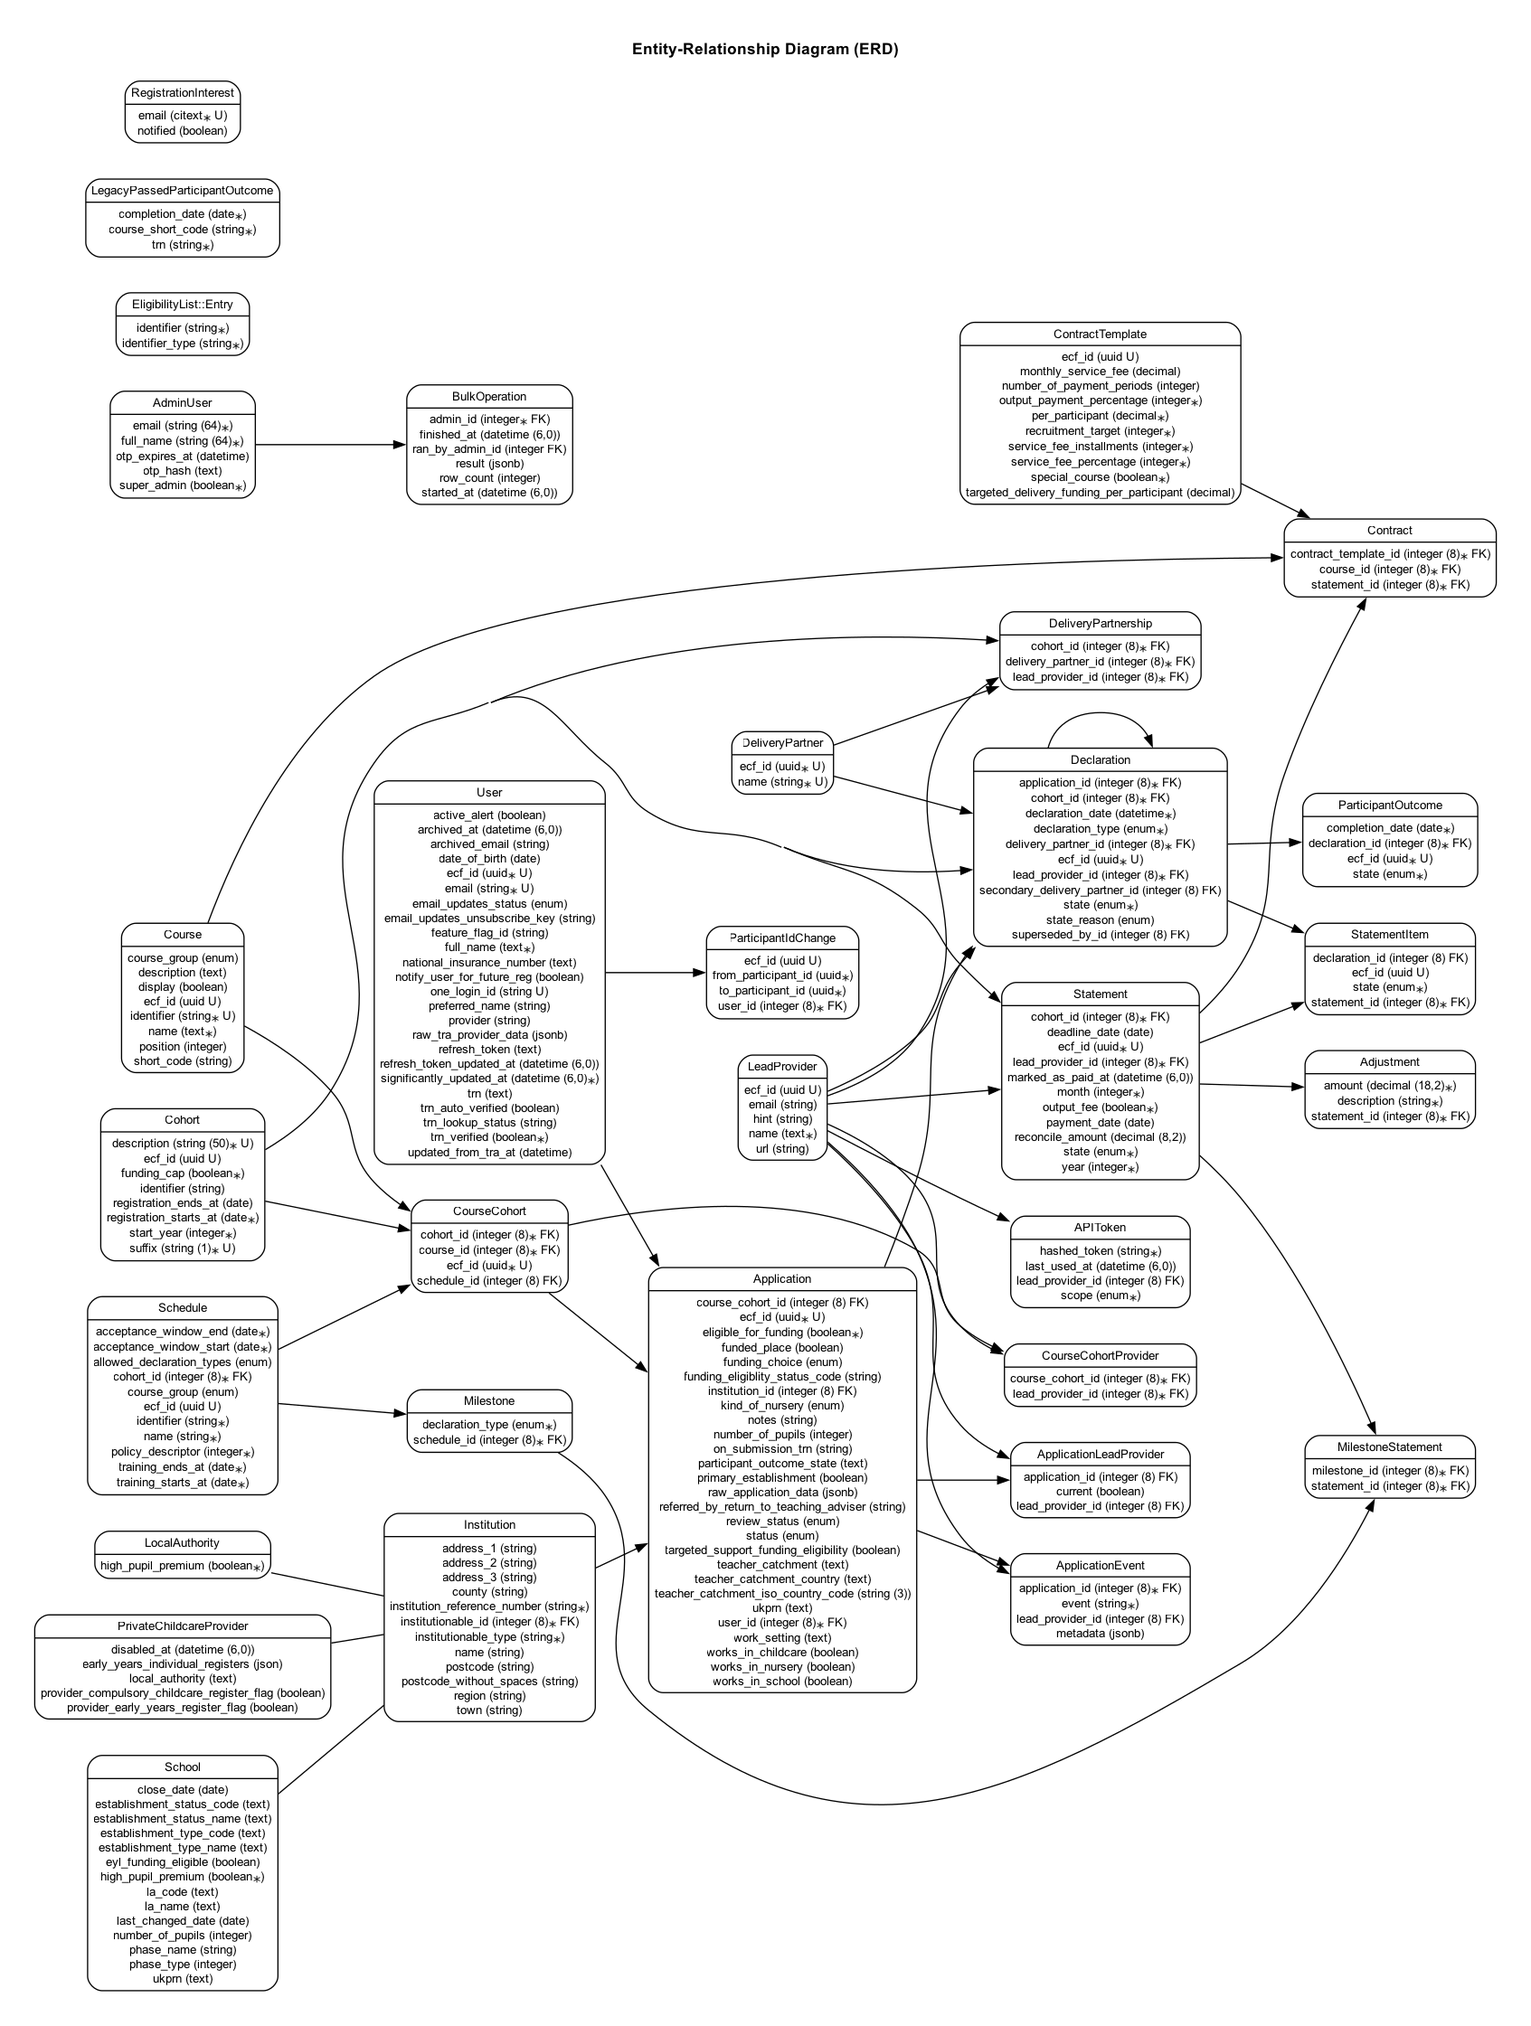
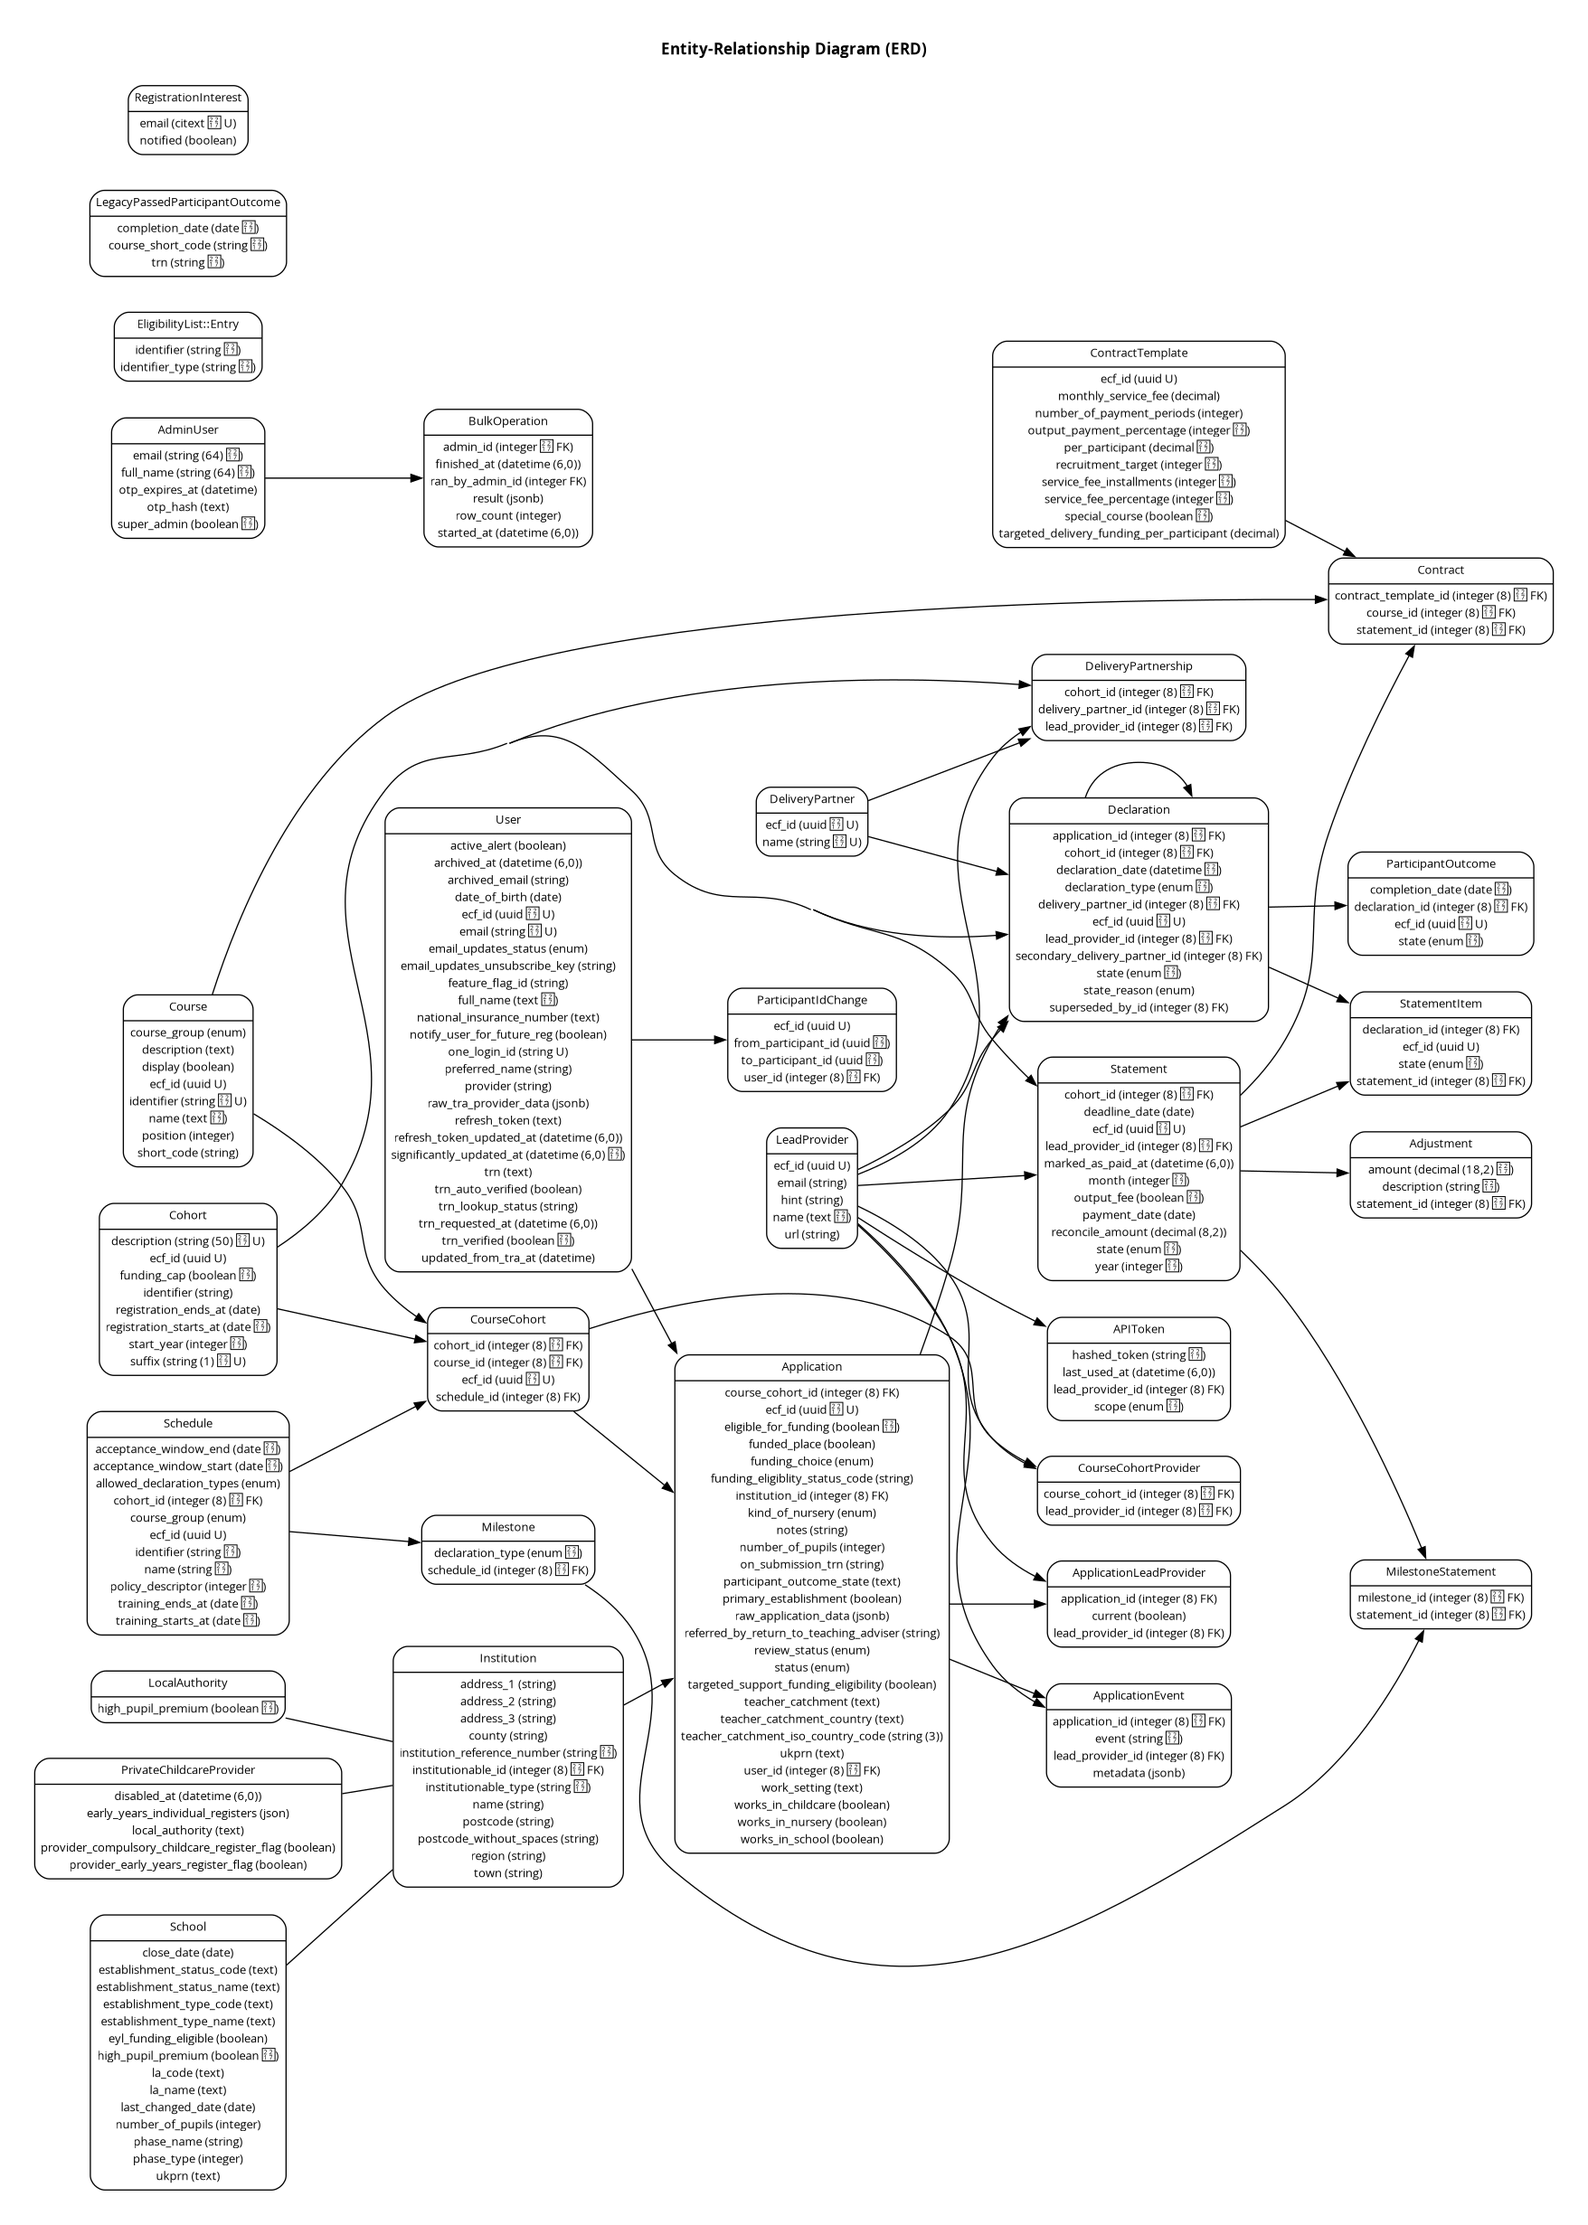
Add TRN request functionality

diff --git a/spec/jobs/request_trn_job_spec.rb b/spec/jobs/request_trn_job_spec.rb
@@ -1,0 +1,127 @@
+require "rails_helper"
+
+RSpec.describe RequestTrnJob do
+  describe "#perform" do
+    let(:user) { create(:user, trn: nil, refresh_token: "old-token", refresh_token_updated_at: 1.day.ago) }
+    let(:application) { create(:application, user:) }
+
+    let(:refresh_service) { instance_double(TeacherAuth::RefreshToken) }
+    let(:activate_service) { instance_double(TeacherAuth::ActivateTrn) }
+
+    context "when TRN is returned immediately" do
+      before do
+        allow(TeacherAuth::RefreshToken).to receive(:new).and_return(refresh_service)
+        allow(refresh_service).to receive(:call).and_return(
+          access_token: "new-access-token",
+          refresh_token: "new-refresh-token",
+        )
+
+        allow(TeacherAuth::ActivateTrn).to receive(:new).with("new-access-token").and_return(activate_service)
+        allow(activate_service).to receive(:call).and_return(trn: "1234567")
+      end
+
+      it "updates user with TRN and clears refresh token" do
+        described_class.perform_now(application)
+        user.reload
+        expect(user).to have_attributes(
+          trn: "1234567",
+          trn_verified: true,
+          refresh_token: nil,
+        )
+      end
+
+      it "sets trn_requested_at" do
+        freeze_time do
+          described_class.perform_now(application)
+          expect(user.reload.trn_requested_at).to eq(Time.current)
+        end
+      end
+    end
+
+    context "when TRN is pending (async)" do
+      before do
+        allow(TeacherAuth::RefreshToken).to receive(:new).and_return(refresh_service)
+        allow(refresh_service).to receive(:call).and_return(
+          access_token: "new-access-token",
+          refresh_token: "new-refresh-token",
+        )
+
+        allow(TeacherAuth::ActivateTrn).to receive(:new).and_return(activate_service)
+        allow(activate_service).to receive(:call).and_return(trn: nil)
+      end
+
+      it "updates refresh token and sets trn_requested_at but does not set TRN" do
+        freeze_time do
+          described_class.perform_now(application)
+          user.reload
+          expect(user.trn).to be_nil
+          expect(user.refresh_token).to eq("new-refresh-token")
+          expect(user.trn_requested_at).to eq(Time.current)
+        end
+      end
+    end
+
+    context "when user already has TRN" do
+      let(:user) { create(:user, trn: "1234567", refresh_token: "token") }
+
+      it "does nothing" do
+        expect(TeacherAuth::RefreshToken).not_to receive(:new)
+        described_class.perform_now(application)
+      end
+    end
+
+    context "when user has no refresh_token" do
+      let(:user) { create(:user, trn: nil, refresh_token: nil) }
+
+      it "does nothing" do
+        expect(TeacherAuth::RefreshToken).not_to receive(:new)
+        described_class.perform_now(application)
+      end
+    end
+
+    context "when TRN was already requested" do
+      let(:user) { create(:user, trn: nil, refresh_token: "token", trn_requested_at: 1.hour.ago) }
+
+      it "does nothing" do
+        expect(TeacherAuth::RefreshToken).not_to receive(:new)
+        described_class.perform_now(application)
+      end
+    end
+
+    context "when refresh token fails" do
+      before do
+        allow(TeacherAuth::RefreshToken).to receive(:new).and_return(refresh_service)
+        allow(refresh_service).to receive(:call).and_return(nil)
+      end
+
+      it "raises RefreshTokenError and does not set trn_requested_at" do
+        expect { described_class.new.perform(application) }
+          .to raise_error(RequestTrnJob::RefreshTokenError)
+        expect(user.reload.trn_requested_at).to be_nil
+      end
+    end
+
+    context "when activate TRN returns nil" do
+      before do
+        allow(TeacherAuth::RefreshToken).to receive(:new).and_return(refresh_service)
+        allow(refresh_service).to receive(:call).and_return(
+          access_token: "new-access-token",
+          refresh_token: "new-refresh-token",
+        )
+
+        allow(TeacherAuth::ActivateTrn).to receive(:new).and_return(activate_service)
+        allow(activate_service).to receive(:call).and_return(nil)
+      end
+
+      it "updates refresh token and sets trn_requested_at" do
+        freeze_time do
+          described_class.perform_now(application)
+          user.reload
+          expect(user.refresh_token).to eq("new-refresh-token")
+          expect(user.trn_requested_at).to eq(Time.current)
+          expect(user.trn).to be_nil
+        end
+      end
+    end
+  end
+end

diff --git a/spec/models/user_spec.rb b/spec/models/user_spec.rb
@@ -449,4 +449,62 @@ RSpec.describe User do
       end
     end
   end
+
+  describe "#requires_token_refresh?" do
+    subject { user.requires_token_refresh? }
+
+    context "when user has no TRN, has refresh token, and no trn_requested_at" do
+      let(:user) { create(:user, trn: nil, refresh_token: "token", trn_requested_at: nil) }
+
+      it { is_expected.to be true }
+    end
+
+    context "when user has TRN" do
+      let(:user) { create(:user, trn: "1234567", refresh_token: "token", trn_requested_at: nil) }
+
+      it { is_expected.to be false }
+    end
+
+    context "when user has no refresh token" do
+      let(:user) { create(:user, trn: nil, refresh_token: nil, trn_requested_at: nil) }
+
+      it { is_expected.to be false }
+    end
+
+    context "when user has trn_requested_at set" do
+      let(:user) { create(:user, trn: nil, refresh_token: "token", trn_requested_at: 1.hour.ago) }
+
+      it { is_expected.to be false }
+    end
+  end
+
+  describe ".needing_token_refresh" do
+    subject { described_class.needing_token_refresh }
+
+    let!(:user_needing_refresh) { create(:user, trn: nil, refresh_token: "token", refresh_token_updated_at: 2.days.ago) }
+
+    it "includes users without TRN, with refresh token, and stale refresh" do
+      expect(subject).to include(user_needing_refresh)
+    end
+
+    it "excludes users with TRN" do
+      user_with_trn = create(:user, trn: "1234567", refresh_token: "token", refresh_token_updated_at: 2.days.ago)
+      expect(subject).not_to include(user_with_trn)
+    end
+
+    it "excludes users without refresh token" do
+      user_no_token = create(:user, trn: nil, refresh_token: nil)
+      expect(subject).not_to include(user_no_token)
+    end
+
+    it "excludes users with recent refresh" do
+      user_recent_refresh = create(:user, trn: nil, refresh_token: "token", refresh_token_updated_at: 1.hour.ago)
+      expect(subject).not_to include(user_recent_refresh)
+    end
+
+    it "excludes users with TRN already requested" do
+      user_trn_requested = create(:user, trn: nil, refresh_token: "token", refresh_token_updated_at: 2.days.ago, trn_requested_at: 1.hour.ago)
+      expect(subject).not_to include(user_trn_requested)
+    end
+  end
 end

diff --git a/spec/services/teacher_auth/activate_trn_spec.rb b/spec/services/teacher_auth/activate_trn_spec.rb
@@ -1,0 +1,53 @@
+require "rails_helper"
+
+RSpec.describe TeacherAuth::ActivateTrn do
+  subject { described_class.new(access_token).call }
+
+  let(:access_token) { "test-access-token" }
+
+  describe "#call" do
+    let(:expected_headers) do
+      {
+        "Authorization" => "Bearer #{access_token}",
+        "Content-Type" => "application/json",
+        "X-Api-Version" => "20260416",
+      }
+    end
+
+    context "when the request is successful with immediate TRN" do
+      before do
+        stub_request(:put, %r{/v3/trn-request/activate})
+          .with(headers: expected_headers)
+          .to_return(status: 200, body: { trn: "1234567" }.to_json, headers: { "Content-Type" => "application/json" })
+      end
+
+      it "returns the TRN" do
+        expect(subject).to eq(trn: "1234567")
+      end
+    end
+
+    context "when the request is successful but TRN is pending" do
+      before do
+        stub_request(:put, %r{/v3/trn-request/activate})
+          .with(headers: expected_headers)
+          .to_return(status: 200, body: { trn: nil, status: "pending" }.to_json, headers: { "Content-Type" => "application/json" })
+      end
+
+      it "returns nil TRN" do
+        expect(subject).to eq(trn: nil)
+      end
+    end
+
+    context "when the request fails" do
+      before do
+        stub_request(:put, %r{/v3/trn-request/activate})
+          .with(headers: expected_headers)
+          .to_return(status: 401, body: { error: "unauthorized" }.to_json)
+      end
+
+      it "returns nil" do
+        expect(subject).to be_nil
+      end
+    end
+  end
+end

diff --git a/app/jobs/request_trn_job.rb b/app/jobs/request_trn_job.rb
@@ -1,0 +1,38 @@
+class RequestTrnJob < ApplicationJob
+  class RefreshTokenError < StandardError; end
+
+  retry_on RefreshTokenError, wait: :polynomially_longer, attempts: 5
+
+  def perform(application)
+    user = application.user
+
+    return unless user.requires_token_refresh?
+
+    # Get fresh access token
+    tokens = TeacherAuth::RefreshToken.new(user.refresh_token).call
+    raise RefreshTokenError, "Failed to refresh token for user #{user.id}" unless tokens
+
+    # Request TRN activation
+    result = TeacherAuth::ActivateTrn.new(tokens[:access_token]).call
+
+    # Update tokens regardless of activation result
+    user_attrs = {
+      refresh_token: tokens[:refresh_token],
+      refresh_token_updated_at: Time.current,
+      trn_requested_at: Time.current,
+    }
+
+    # If TRN returned immediately, update user and clear refresh token
+    if result&.dig(:trn).present?
+      user_attrs.merge!(
+        trn: result[:trn],
+        trn_verified: true,
+        trn_auto_verified: true,
+        refresh_token: nil,
+        refresh_token_updated_at: nil,
+      )
+    end
+
+    user.update!(user_attrs)
+  end
+end

diff --git a/app/services/teacher_auth/activate_trn.rb b/app/services/teacher_auth/activate_trn.rb
@@ -1,0 +1,33 @@
+module TeacherAuth
+  class ActivateTrn
+    include HTTParty
+
+    REQUIRED_API_VERSION = "20260416".freeze
+
+    base_uri ENV.fetch("TRS_API_URL", nil)
+
+    def initialize(access_token)
+      @access_token = access_token
+    end
+
+    def call
+      response = self.class.put(
+        "/v3/trn-request/activate",
+        headers: {
+          "Authorization" => "Bearer #{@access_token}",
+          "Content-Type" => "application/json",
+          "X-Api-Version" => REQUIRED_API_VERSION,
+        },
+      )
+
+      unless response.success?
+        Rails.logger.error("TeacherAuth::ActivateTrn failed: #{response.code} - #{response.body}")
+        return
+      end
+
+      return unless response.parsed_response
+
+      { trn: response.parsed_response["trn"] }
+    end
+  end
+end

diff --git a/app/models/user.rb b/app/models/user.rb
@@ -14,6 +14,7 @@ class User < ApplicationRecord
     email_updates_unsubscribe_key
     refresh_token
     refresh_token_updated_at
+    trn_requested_at
   ].freeze
 
   devise :omniauthable, omniauth_providers: [Omniauth::Strategies::TeacherAuth::NAME]
@@ -43,6 +44,7 @@ class User < ApplicationRecord
     where(trn: nil)
       .where.not(refresh_token: nil)
       .where("refresh_token_updated_at < ?", 1.day.ago)
+      .where(trn_requested_at: nil)
   }
 
   EMAIL_UPDATES_STATES = [
@@ -103,6 +105,10 @@ class User < ApplicationRecord
 
   def trn_lookup_status_found?
     trn_lookup_status == "Found"
+  end
+
+  def requires_token_refresh?
+    trn.blank? && refresh_token.present? && trn_requested_at.blank?
   end
 
   def active_applications_for(course:, cohort:)

diff --git a/spec/features/journeys/happy_paths/basic_registration_journey_spec.rb b/spec/features/journeys/happy_paths/basic_registration_journey_spec.rb
@@ -114,6 +114,7 @@ RSpec.feature "Happy journeys", :with_default_lead_provider, :with_default_sched
                                                              "refresh_token_updated_at" => nil,
                                                              "trn_auto_verified" => true,
                                                              "trn_lookup_status" => nil,
+                                                             "trn_requested_at" => nil,
                                                              "trn_verified" => true,
                                                            ))
 

diff --git a/spec/jobs/refresh_user_token_job_spec.rb b/spec/jobs/refresh_user_token_job_spec.rb
@@ -46,6 +46,15 @@ RSpec.describe RefreshUserTokenJob, type: :job do
       end
     end
 
+    context "when TRN was already requested" do
+      let(:user) { create(:user, trn: nil, refresh_token: "token", trn_requested_at: 1.hour.ago) }
+
+      it "does nothing" do
+        expect(TeacherAuth::RefreshToken).not_to receive(:new)
+        described_class.perform_now(user)
+      end
+    end
+
     context "when refresh fails" do
       let(:refresh_service) { instance_double(TeacherAuth::RefreshToken) }
 

diff --git a/db/schema.rb b/db/schema.rb
@@ -588,6 +588,7 @@ ActiveRecord::Schema[8.1].define(version: 2026_05_21_102746) do
     t.text "trn"
     t.boolean "trn_auto_verified", default: false
     t.string "trn_lookup_status"
+    t.datetime "trn_requested_at"
     t.boolean "trn_verified", default: false, null: false
     t.datetime "updated_at", null: false
     t.datetime "updated_from_tra_at", precision: nil

diff --git a/spec/services/handle_submission_for_store_spec.rb b/spec/services/handle_submission_for_store_spec.rb
@@ -45,6 +45,7 @@ RSpec.describe HandleSubmissionForStore do
       "refresh_token_updated_at" => nil,
       "trn_auto_verified" => false,
       "trn_lookup_status" => nil,
+      "trn_requested_at" => nil,
       "trn_verified" => false,
       "feature_flag_id" => user.feature_flag_id,
     }

diff --git a/app/jobs/refresh_user_token_job.rb b/app/jobs/refresh_user_token_job.rb
@@ -1,7 +1,6 @@
 class RefreshUserTokenJob < ApplicationJob
   def perform(user)
-    return if user.trn.present?
-    return if user.refresh_token.blank?
+    return unless user.requires_token_refresh?
 
     result = TeacherAuth::RefreshToken.new(user.refresh_token).call
 

diff --git a/db/migrate/20260520100000_add_trn_requested_at_to_users.rb b/db/migrate/20260520100000_add_trn_requested_at_to_users.rb
@@ -1,0 +1,5 @@
+class AddTrnRequestedAtToUsers < ActiveRecord::Migration[8.0]
+  def change
+    add_column :users, :trn_requested_at, :datetime
+  end
+end
